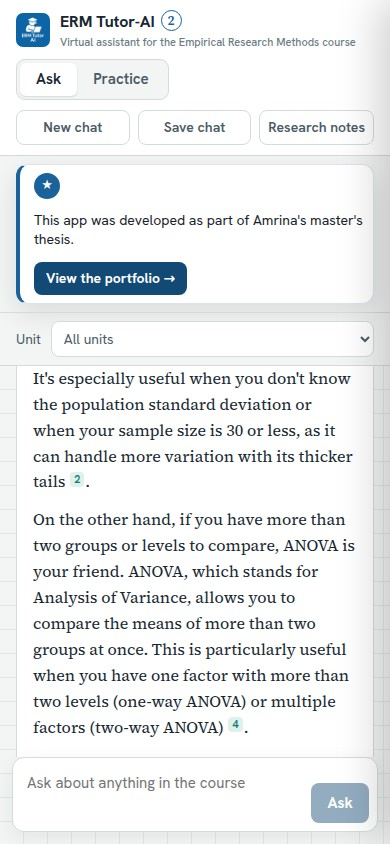
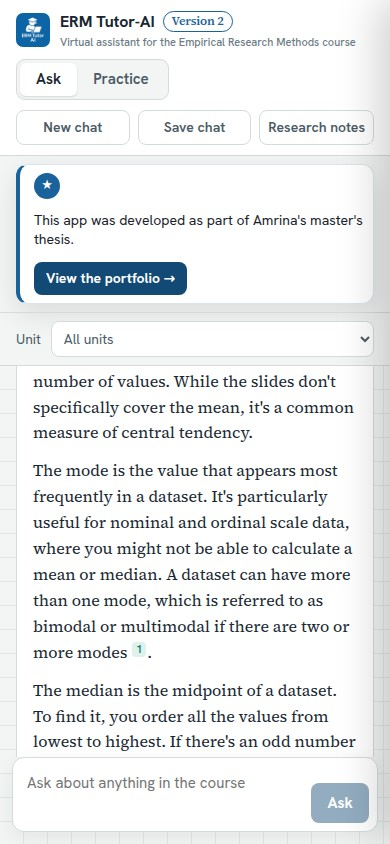
Screenshots with the Version 2 badge and a marked general-knowledge sentence

Changed region(s): [[0.0615, 0.4313, 0.9231, 0.8934], [0.4, 0.0, 0.5846, 0.0308]]

diff --git a/docs/index.html b/docs/index.html
@@ -235,13 +235,13 @@ footer p { margin: 0 0 6px; }
   <div class="wrap">
     <h2>The interface</h2>
     <p class="sub">Screenshots of the live app with real model answers.</p>
-    <figure><img class="shot" src="img/d-answer.jpg" alt="Answer about t-test and ANOVA with numbered citations; the source panel on the right shows the cited lecture passages with unit, page and slide title" loading="lazy">
-      <figcaption>An answer with numbered citations. The source panel shows the cited slide as an image and marks the lines that support the statement.</figcaption></figure>
+    <figure><img class="shot" src="img/d-answer.jpg" alt="Answer about mean, mode and median with numbered citations and a marked general-knowledge sentence; the source panel shows the cited slide with supporting lines highlighted" loading="lazy">
+      <figcaption>An answer with numbered citations; general knowledge is introduced as “Beyond the course slides”. The source panel shows the cited slide and marks the lines that support the statement. The sentence about the mean in the second paragraph shows what the evaluation counts as unmarked.</figcaption></figure>
     <figure style="margin-top:28px"><img class="shot" src="img/d-behind.jpg" alt="Behind the answer: a time bar for retrieval, waiting and writing, prompt and answer tokens, estimated cost, and the ten candidate passages with similarity scores" loading="lazy">
-      <figcaption>Behind the answer: 2.8 seconds in total, 1,076 tokens, about $0.004. Retrieval found ten candidates; maximal marginal relevance skipped page 52 because it repeats page 51.</figcaption></figure>
+      <figcaption>Behind the answer: 3.0 seconds in total, 1,422 tokens, about $0.005. Retrieval found ten candidates on unit 6; the four it chose are numbered.</figcaption></figure>
     <div class="gallery">
-      <figure><img class="shot" src="img/d-practice.jpg" alt="Practice mode: a question on two-way ANOVA, the student's answer, and feedback marked correct with citations" loading="lazy">
-        <figcaption>Practice mode: a question from a unit 7 slide, the student's answer, and feedback with a verdict. The dot next to unit 7 is the saved progress.</figcaption></figure>
+      <figure><img class="shot" src="img/d-practice.jpg" alt="Practice mode: a question on post-hoc tests after ANOVA, the student's answer, and feedback marked correct with citations" loading="lazy">
+        <figcaption>Practice mode: a question from a unit 7 slide, the student's answer, and feedback with a verdict and the supporting lines of the cited slide. The dot next to unit 7 is the saved progress.</figcaption></figure>
       <figure><img class="shot" src="img/m-answer.jpg" alt="The app on a phone, answering when to use a t-test or an ANOVA" loading="lazy">
         <figcaption>On a phone.</figcaption></figure>
     </div>

diff --git a/README.md b/README.md
@@ -15,7 +15,7 @@ ERM Tutor-AI is a virtual assistant for students in the *Empirical Research Meth
 
 Version 2 keeps the same lecture materials and model, tightens the tutor rules (the slides first, a citation for every sentence, general knowledge only for gaps and marked as such) and makes the answers easier to check and to learn from: every statement points to the lecture slide it is based on, shown as the slide itself with the supporting lines marked; a practice mode gives feedback on the student's own answers; a "Behind the answer" panel shows what retrieval found, how long each step took and what the answer cost; and an evaluation script measures the tutor on the 20 thesis questions.
 
-![Answer with numbered citations, the syllabus strip and the source panel](docs/img/d-answer.jpg)
+![Answer with numbered citations, a marked general-knowledge sentence and the cited slide with supporting lines highlighted](docs/img/d-answer.jpg)
 
 ---
 
